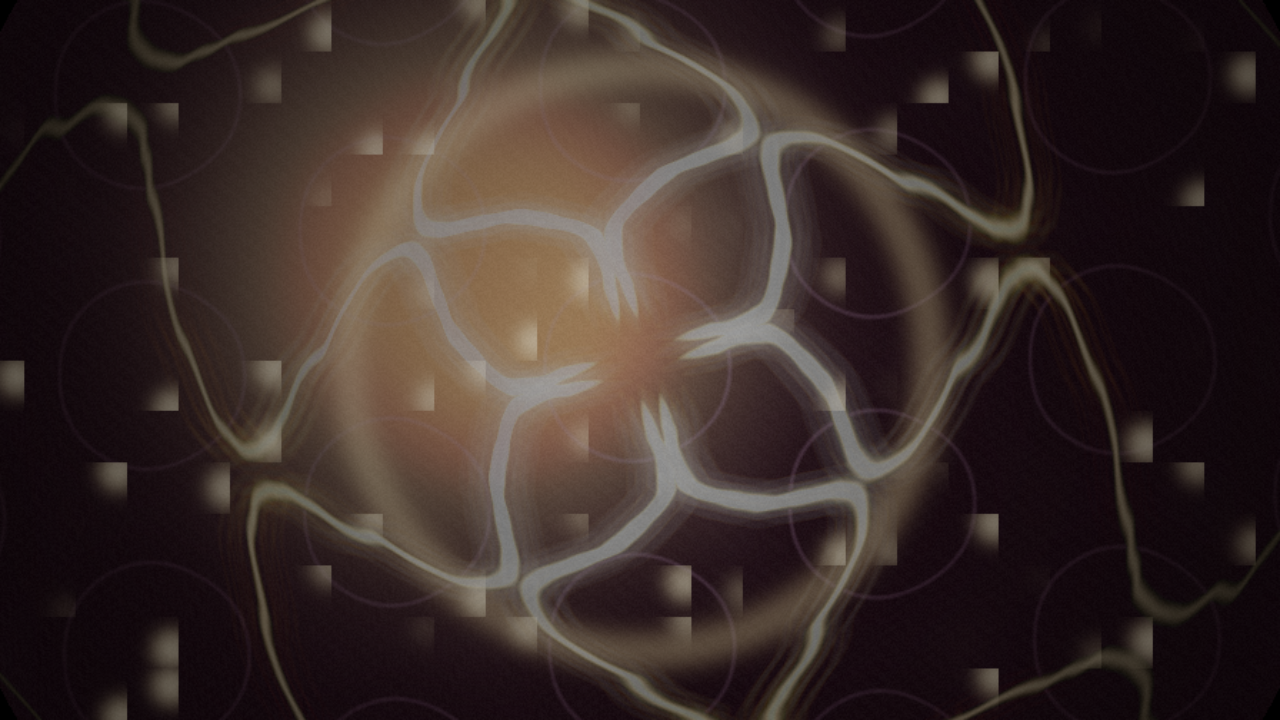
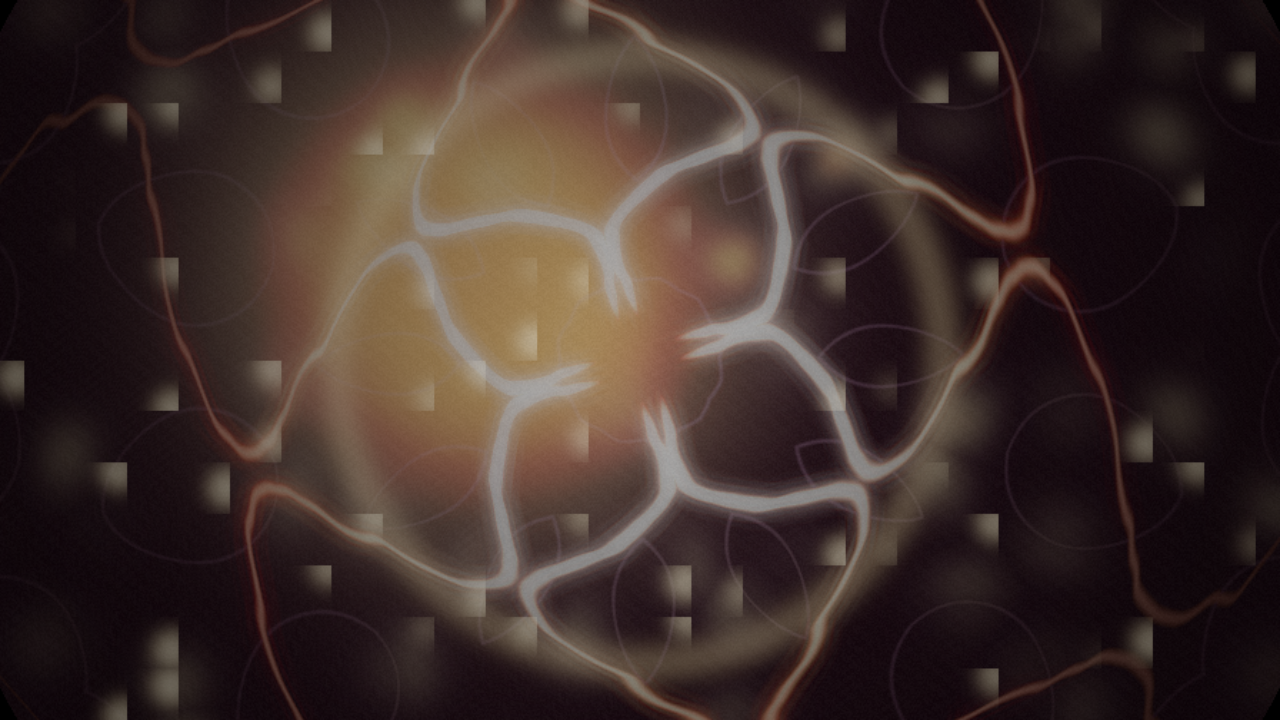
yaktin-beni v2: chaotic tunnel at the drop + round lights + kaleidoscope-in-triangle
Louis watchthrough redline batch #1:
- acid-filament: the drop (peak-1 + the 95s long-peak) becomes a chaotic
  flythrough tunnel — 1/r vanishing-point depth streaming outward, hyperspace
  radial streaks bent by fbm (unpredictable, NOT beat-locked), branching
  lightning forks, tentacles reaching over the frame edge, brightness cranked.
- girih-mandala: replaced the angular antinode dots with round gaussian ember
  lights (Louis: "weird corners on the blinking lights"); added kaleidoFold —
  nested mirror inside each triangular wedge (a kaleidoscope inside each
  triangle). Mandala recedes at the drop so the tunnel dominates.
- bloom-grain: 8-tap octagonal bloom -> 24-tap golden-angle isotropic round
  halo (no cornered coronas).

Lints pass (palette 0.00% cool, idle, composition). Round-lights +
kaleidoscope landed; tunnel substantially crazier — handing to Louis's live
watch to judge the flythrough feel (stills under-grade motion).

diff --git a/brainstorming/critiques/yaktin-beni-v2.md b/brainstorming/critiques/yaktin-beni-v2.md
@@ -1,0 +1,63 @@
+# yaktin-beni — v2 critique (Louis watchthrough redline batch #1)
+
+Three redlines from Louis watching v1 live:
+
+1. **Tentacles must get CRAZY at the drop** — "a chaotic tunnel, more than
+   lightning, like a highway. You are projected in it and it goes all crazy
+   over the edge and it must be unpredictable, unlike music."
+2. **The blinking lights have weird corners** — "why so? not sure it's the
+   best way."
+3. **Kaleidoscope inside each triangle** — "the triangle is fun but maybe mix
+   in a kaleidoscope inside each of the triangles... some mirror stuff going
+   on inside the triangle mirrors."
+
+## What changed
+
+### acid-filament — chaotic flythrough tunnel at the drop
+- New `drop` factor (peak-1 sid3 + the 95s long-peak sid5 = 1.0, rise sid2 =
+  0.55, gated by bass). Calm sections keep the folded serpent; the drop
+  transforms it.
+- Tunnel depth `tz = 1/(rad+0.07) + time*(0.8+3.4*drop)` — 1/r vanishing point
+  streaming outward (projected INTO it).
+- Chaotic writhe = multi-octave fbm of (depth, angle) — driven by depth+time,
+  NOT the beat, so it's genuinely unpredictable.
+- HYPERSPACE STREAKS: thin radial lines (full-circle, unfolded angle) bent by
+  fbm, brightness rushing outward along tz — the highway.
+- Branching fork tentacle (lightning splits); edge-reaching renv at drop (over
+  the edge); brightness cranked at the drop.
+
+### girih-mandala — round lights + nested kaleidoscope
+- Replaced the angular quasicrystal antinode dots (`pow(field, n)` → diamond/
+  square corners) with `roundEmbers()` — round gaussian glows on a wandering
+  jittered lattice, twinkling. Computed on UNFOLDED coords and NOT multiplied
+  by the angular folded field (both of which re-introduced corners — see
+  lessons). Pure round lights; the smooth radial env shapes them.
+- `kaleidoFold()` — fold into 2N triangular wedges, then mirror subN(2-3) times
+  inside each wedge → a kaleidoscope inside each triangle (visible leaf/lens
+  nested-mirror cells). subN breathes with the vocal.
+- Mandala recedes at the drop (`*= 1 - 0.45*drop`) so the tunnel dominates;
+  the kaleidoscope stays as the walls.
+
+### bloom-grain — round bloom
+- 8-tap ring (octagonal corona) → 24-tap golden-angle spiral, aspect-corrected
+  → isotropic round halo. Fixes the "corners on the lights" at the bloom stage.
+
+## Grade (stills + drop clips)
+- Kaleidoscope-in-triangle: LANDED — clear nested-mirror leaf cells, kaleido
+  flower at the long-peak. ✓
+- Round lights: LANDED — central + field lights are round soft embers; a few
+  tiny dim squares remain (thumbnail aliasing, not the angular shapes). ✓
+- Chaotic tunnel: SUBSTANTIALLY crazier — long spiraling tentacles reaching the
+  edges, radial hyperspace streaks rushing out, fbm chaos not beat-locked. In
+  stills it reads as a wild spiraling kaleidoscope-sun; the flythrough depth is
+  carried by motion (streak rush). Hand to Louis's LIVE watch to judge whether
+  the "highway you fly down" sense is strong enough — stills under-grade it.
+- Lints: palette PASS (0.00% cool), idle PASS, composition PASS.
+
+## Open for next redline
+- If the tunnel still doesn't read as "projected into a highway" live: push the
+  radial streak contrast + add a true log-polar zoom remap of the whole drop
+  field (stronger forward-motion), and consider a brief full-frame zoom-blur.
+- A few residual tiny square dots at the dim periphery (likely sub-pixel
+  aliasing at render_scale 0.7) — bump render_scale or soften if Louis catches
+  them live.